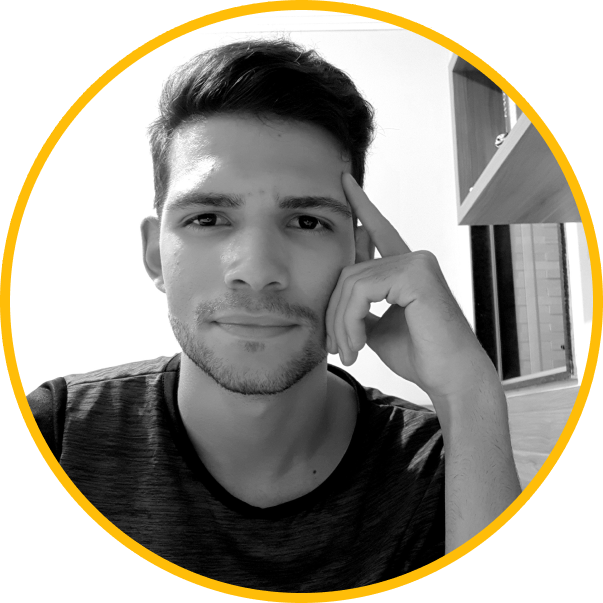
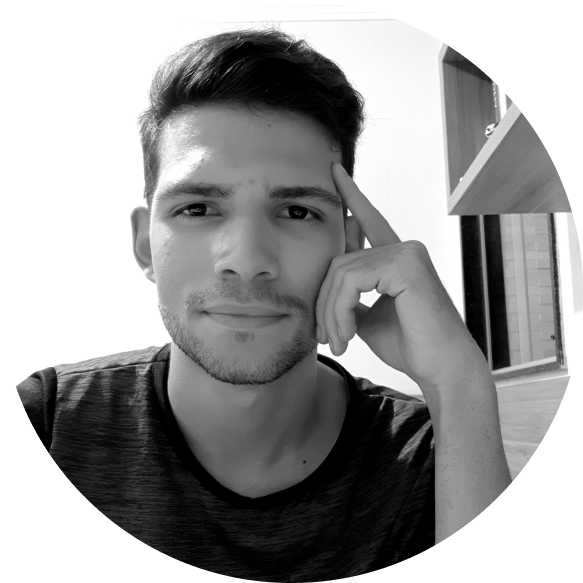
Implementando dark mode

diff --git a/style/style.css b/style/style.css
@@ -12,23 +12,25 @@
   src: url('fonts/Open_Sans/OpenSans-VariableFont_wdth\,wght.ttf');
 
 }
+
 /*------------------------------------------------------*/
 
 /*Declarando variáveis*/
 :root {
-  --backgrond-color: #F5F5F7;
-  --section-color: #FFFFFF;
-  --text-color: #000000;
-  --yewllow-arthur: #FFBD08;
-  --blue-arthur: #174AE4;
-  --rounded-edges: 15px;
-  --time-transition: 0.5s;
+  --backgrondColor: #F5F5F7;
+  --sectionColor: #FFFFFF;
+  --textColor: #000000;
+  --lightFillArthur: #FFBD08;
+  --darkFillArthur: #AA21FF;
+  --roundedEdges: 15px;
+  --timeTransition: 0.5s;
 }
+
 /*------------------------------------------------------*/
 
 /*Estilização geral das tags*/
 body {
-  background-color: var(--backgrond-color);
+  background-color: var(--backgrondColor);
   overflow-x: hidden;
 }
 
@@ -47,7 +49,7 @@ section {
   margin-bottom: 20px;
   border-radius: 20px;
   text-align: center;
-  background-color: var(--section-color);
+  background-color: var(--sectionColor);
 
 }
 
@@ -74,16 +76,18 @@ footer {
   justify-content: center;
   align-items: center;
 }
+
 /*------------------------------------------------------*/
 
 /*Componentes da priemeira section*/
 #img-perfil {
   max-width: 45%;
   max-height: 45%;
-  border-color: red;
-  border-width: 20px;
+
+  border-width: 16px;
   border-style: solid;
   border-radius: 100%;
+  border-color: var(--lightFillArthur);
 }
 
 #title_my_name {
@@ -93,6 +97,7 @@ footer {
   margin: 0;
   padding: 0;
 }
+
 /*------------------------------------------------------*/
 
 /*Componentes da segunda section*/
@@ -108,7 +113,7 @@ footer {
   height: 20px;
   border-radius: 100%;
   margin-right: 20px;
-  background-color: var(--yewllow-arthur);
+  background-color: var(--lightFillArthur);
 }
 
 #title_about {
@@ -170,4 +175,5 @@ footer {
   font-weight: bold;
   background-color: #000000;
 }
+
 /*------------------------------------------------------*/

diff --git a/script/Main.js b/script/Main.js
@@ -23,10 +23,11 @@ async function changeThemeColor() {
     const DARK_THEME = window.matchMedia('(prefers-color-scheme: dark)');
 
     // lendo componentes
+    const MY_IMG = document.querySelector('#img-perfil');
     const TITLE_NAME = document.querySelector('#title_my_name');
+    const ICON_TITLE_ABOUT = document.querySelector("#yellow_ball");
     const TITLE_ABOUT = document.querySelector('#title_about');
     const TEXT_ABOUT = document.querySelector('.container-bout-text');
-
     const BTN_CV = document.querySelector('.btn-cv');
     // getElementsByTagName retorna uma lista de atributos:
     const TAG_SECTION = document.getElementsByTagName('section');
@@ -39,7 +40,9 @@ async function changeThemeColor() {
         for (let i = 0; i < TAG_SECTION.length; i++) {
             TAG_SECTION[i].style.backgroundColor = CORES.DARK.sectionColor;
         }
+        MY_IMG.style.borderColor = CORES.DARK.fillColorArthur;
         TITLE_NAME.style.color = CORES.DARK.textColor;
+        ICON_TITLE_ABOUT.style.backgroundColor = CORES.DARK.fillColorArthur;
         TITLE_ABOUT.style.color = CORES.DARK.textColor;
         TEXT_ABOUT.style.color = CORES.DARK.textColor;
         BTN_CV.style.borderColor = CORES.BTN.DARK.fillColorArthur;
@@ -67,8 +70,9 @@ async function changeThemeColor() {
         for (let i = 0; i < TAG_SECTION.length; i++) {
             TAG_SECTION[i].style.backgroundColor = CORES.LIGHT.sectionColor;
         }
+        MY_IMG.style.borderColor = CORES.LIGHT.fillColorArthur;
         TITLE_NAME.style.color = CORES.LIGHT.textColor;
-        TITLE_ABOUT.style.color = CORES.LIGHT.textColor;
+        ICON_TITLE_ABOUT.style.backgroundColor = CORES.LIGHT.fillColorArthur;
         TEXT_ABOUT.style.color = CORES.LIGHT.textColor;
         BTN_CV.style.borderColor = CORES.BTN.LIGHT.fillColorArthur;
         BTN_CV.style.color = CORES.BTN.LIGHT.leaveBtnTextColor;
